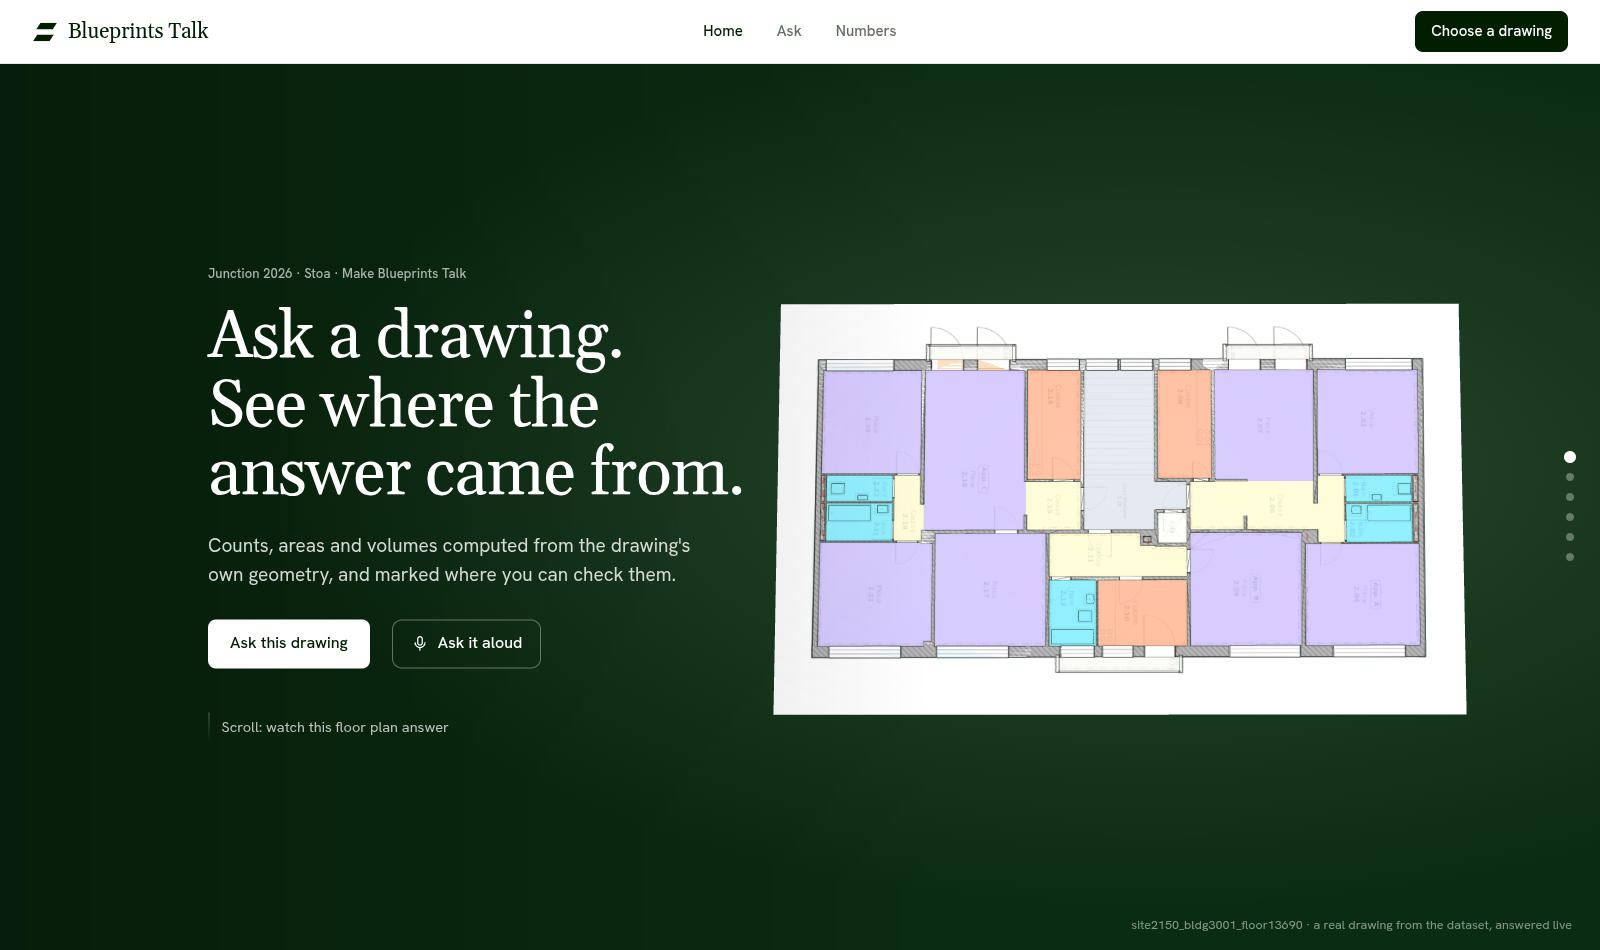
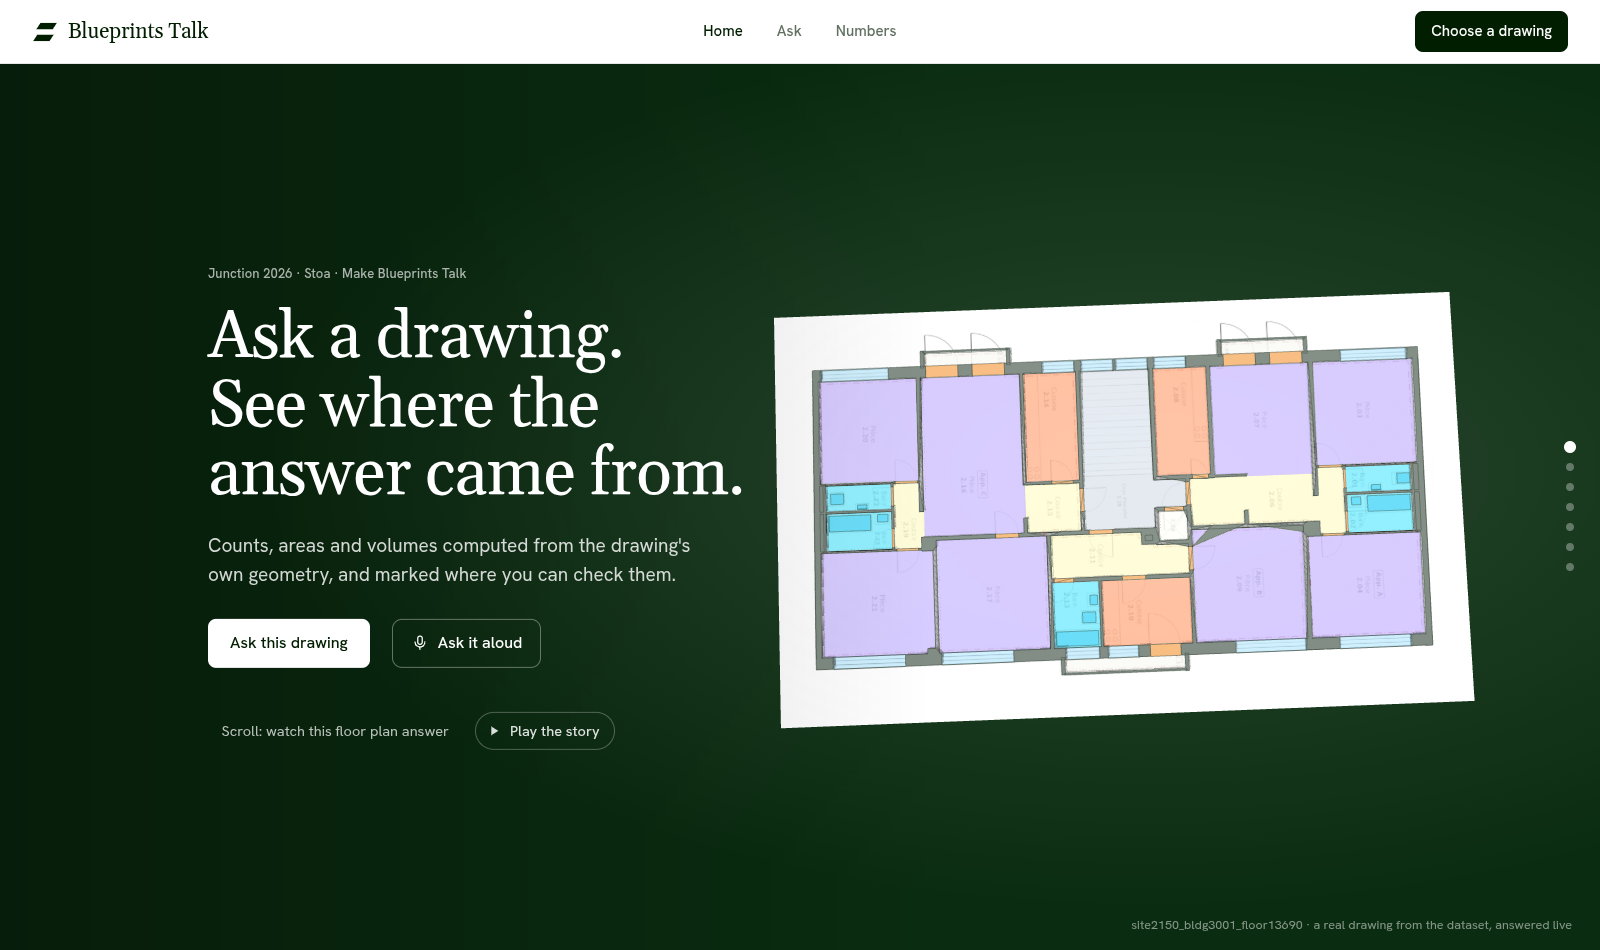
The story: alive before any scroll, plays by itself, and shows a scan
Before any scroll the walls breathe and the view drifts; a control plays the whole
story at a steady pace. A new chapter shows a scan where Gemini's boxes are drawn one
by one and counted. Cut walls are inked like a drawing's solid walls. Presenting the
examples shows a caption with arrows where the drawing's name stood. The example cards
on the landing page stand on their own colours.

diff --git a/web/src/Story.tsx b/web/src/Story.tsx
@@ -8,10 +8,13 @@ import { type Direction, type Highlight, Viewer3D } from "./Viewer3D";
 // model. Every figure on screen is the engine's own answer to a real question, asked on load.
 
 const STOP = TOUR[0];
+// A scan, for the chapter where there is no geometry to read: the first example answered by a vision model.
+const SCAN = TOUR.find((stop) => stop.drawing.includes("cubicasa") && /window/i.test(stop.question)) ?? TOUR[7];
 const NONE = new Set<number>();
-const CHAPTERS = 6;
-// Where each chapter begins, as a share of the whole scroll.
-const AT = [0, 0.1, 0.3, 0.52, 0.7, 0.85, 1.0001];
+const CHAPTERS = 7;
+// Where each chapter begins, as a share of the whole scroll:
+// opening, it stands up, doors, areas, a scan, how far to trust it, results.
+const AT = [0, 0.09, 0.26, 0.45, 0.6, 0.74, 0.87, 1.0001];
 
 const clamp = (x: number) => Math.min(1, Math.max(0, x));
 const smooth = (from: number, to: number, x: number) => { const t = clamp((x - from) / (to - from)); return t * t * (3 - 2 * t); };
@@ -38,6 +41,7 @@ export function Story({ stats, onOpen, onBrowse, onBring, onTalk, canTalk }: Pro
   const [doors, setDoors] = useState<AskResult | null>(null);
   const [area, setArea] = useState<AskResult | null>(null);
   const [flat, setFlat] = useState<string | null>(null);  // which apartment the area question is about
+  const [scan, setScan] = useState<{ drawing: DrawingDetail; answer: AskResult } | null>(null);
 
   // The drawing, and two real questions put to the engine.
   useEffect(() => {
@@ -52,6 +56,8 @@ export function Story({ stats, onOpen, onBrowse, onBring, onTalk, canTalk }: Pro
       }
     }).catch(() => undefined);
     api.ask(STOP.drawing, STOP.question, false).then((answer) => alive && setDoors(answer)).catch(() => undefined);
+    Promise.all([api.drawing(SCAN.drawing), api.ask(SCAN.drawing, SCAN.question, false)])
+      .then(([drawing, answer]) => alive && setScan({ drawing, answer })).catch(() => undefined);
     return () => { alive = false; };
   }, []);
 
@@ -75,19 +81,53 @@ export function Story({ stats, onOpen, onBrowse, onBring, onTalk, canTalk }: Pro
 
   const chapter = Math.max(0, AT.findIndex((start, i) => p >= start && p < AT[i + 1]));
   const direction: Direction = useMemo(() => ({
-    rise: smooth(0.07, 0.27, p),
-    tilt: 1.5 - 0.88 * smooth(0.05, 0.3, p),
-    turn: Math.PI / 2 + 0.55 * smooth(0.08, 0.34, p) + 1.25 * linear(0.3, 1, p),
-    back: 1.2 - 0.06 * smooth(0.1, 0.3, p) + 0.1 * smooth(0.72, 1, p),
+    rise: smooth(0.06, 0.23, p),
+    tilt: 1.5 - 0.88 * smooth(0.04, 0.26, p),
+    turn: Math.PI / 2 + 0.55 * smooth(0.07, 0.29, p) + 1.3 * linear(0.26, 1, p),
+    back: 1.2 - 0.06 * smooth(0.09, 0.26, p) + 0.1 * smooth(0.76, 1, p),
+    sway: 0.1 * (1 - smooth(0.01, 0.07, p)),  // before any scroll the walls breathe: it is a model, not a picture
   }), [p]);
+
+  // Playing: the page scrolls itself through the story at a steady pace (for showing it, or filming it).
+  const [playing, setPlaying] = useState(false);
+  useEffect(() => {
+    if (!playing) return;
+    const el = section.current;
+    if (!el) return;
+    const span = el.getBoundingClientRect().height - window.innerHeight;
+    const from = window.scrollY, to = el.offsetTop + span - 64;
+    const duration = Math.max(4000, 42000 * ((to - from) / span));
+    const began = performance.now();
+    let frame = 0;
+    const step = () => {
+      const t = (performance.now() - began) / duration;
+      window.scrollTo(0, from + (to - from) * Math.min(1, t));
+      if (t >= 1) return setPlaying(false);
+      frame = requestAnimationFrame(step);
+    };
+    frame = requestAnimationFrame(step);
+    const stop = () => setPlaying(false);
+    window.addEventListener("wheel", stop, { passive: true });
+    window.addEventListener("touchstart", stop, { passive: true });
+    window.addEventListener("keydown", stop);
+    return () => {
+      cancelAnimationFrame(frame);
+      window.removeEventListener("wheel", stop);
+      window.removeEventListener("touchstart", stop);
+      window.removeEventListener("keydown", stop);
+    };
+  }, [playing]);
 
   // Doors open one by one through the third chapter; the apartment's rooms light up through the fourth.
   const doorItems = useMemo(() => counted(doors), [doors]);
   const roomItems = useMemo(() => counted(area), [area]);
   const act = p < AT[3] ? "doors" : p < AT[4] ? "area" : "rest";
   const items = act === "doors" ? doorItems : act === "area" ? roomItems : [];
-  const shown = act === "doors" ? Math.round(linear(0.335, 0.47, p) * doorItems.length)
-    : act === "area" ? Math.round(linear(0.55, 0.655, p) * roomItems.length) : 0;
+  const shown = act === "doors" ? Math.round(linear(0.29, 0.41, p) * doorItems.length)
+    : act === "area" ? Math.round(linear(0.48, 0.565, p) * roomItems.length) : 0;
+  // On the scan, the model's boxes are drawn one by one.
+  const boxes = useMemo(() => (scan ? scan.answer.evidence.filter((e) => e.kind === "box" && e.bbox && e.n != null) : []), [scan]);
+  const boxed = Math.round(linear(0.63, 0.705, p) * boxes.length);
   const highlights: Highlight[] = useMemo(() => items.flatMap((e) => {
     const id = e.kind === "element" ? e.id : e.ref;
     return id ? [{ id, n: e.n!, tone: e.kind === "polygon" ? "area" as const : "count" as const }] : [];
@@ -116,7 +156,7 @@ export function Story({ stats, onOpen, onBrowse, onBring, onTalk, canTalk }: Pro
   return (
     <section className="story" ref={section} style={{ height: `${CHAPTERS * 105}vh` }}>
       <div className={`story-pin tone-${chapter}`}>
-        <div className="story-stage">
+        <div className={`story-stage${chapter === 4 ? " away" : ""}`}>
           {detail?.mesh && (
             <Viewer3D
               key={detail.mesh}
@@ -137,6 +177,24 @@ export function Story({ stats, onOpen, onBrowse, onBring, onTalk, canTalk }: Pro
           )}
         </div>
         <div className="story-shade" />
+        {scan && (
+          <div className={`story-scan${chapter === 4 ? " on" : ""}`}>
+            <svg viewBox={`0 0 ${scan.drawing.view.width} ${scan.drawing.view.height}`} role="img" aria-label="A scanned plan with each window boxed">
+              <image href={scan.drawing.view.url ?? undefined} width={scan.drawing.view.width} height={scan.drawing.view.height} />
+              {boxes.slice(0, boxed).map((e) => {
+                const [x0, y0, x1, y1] = e.bbox!;
+                const u = scan.drawing.view.width / 430;
+                return (
+                  <g key={e.n} className="box">
+                    <rect x={x0 - 2 * u} y={y0 - 2 * u} width={x1 - x0 + 4 * u} height={y1 - y0 + 4 * u} rx={3 * u} strokeWidth={2.2 * u} />
+                    <circle cx={x0 - 2 * u} cy={y0 - 2 * u} r={7.5 * u} />
+                    <text x={x0 - 2 * u} y={y0 - 2 * u + 2.9 * u} textAnchor="middle" fontSize={8.4 * u}>{e.n}</text>
+                  </g>
+                );
+              })}
+            </svg>
+          </div>
+        )}
 
         <div className="story-copy">
           <article className={chapter === 0 ? "on" : ""}>
@@ -152,7 +210,12 @@ export function Story({ stats, onOpen, onBrowse, onBring, onTalk, canTalk }: Pro
                 </button>
               )}
             </div>
-            <button className="cue" onClick={() => go(1)}><i />Scroll: watch this floor plan answer</button>
+            <div className="cues">
+              <button className="cue" onClick={() => go(1)}><i />Scroll: watch this floor plan answer</button>
+              <button className="play" onClick={() => setPlaying(true)}>
+                <svg viewBox="0 0 24 24" aria-hidden><path d="M8 5.5v13l10.5-6.500z" /></svg>Play the story
+              </button>
+            </div>
           </article>
 
           <article className={chapter === 1 ? "on" : ""}>
@@ -196,6 +259,21 @@ export function Story({ stats, onOpen, onBrowse, onBring, onTalk, canTalk }: Pro
 
           <article className={chapter === 4 ? "on" : ""}>
             <p className="step">04</p>
+            <h2>On a scan, the model points. The code counts.</h2>
+            <div className={`live asked${boxed >= boxes.length && boxes.length ? " done" : ""}`}>
+              <p className="said"><span>How many windows are on this plan?</span></p>
+              <div className="reply">
+                <strong>{scan ? boxed : "\u00a0"}</strong>
+                <span className="unit">windows</span>
+                <span className={`verdict ${scan?.answer.state ?? "check"}`}><i />{scan?.answer.state === "verified" ? "Verified" : "Check this"}</span>
+              </div>
+              <p className="how">Gemini boxes each one · the code counts the boxes · about €0.007</p>
+            </div>
+            <p className="sub small">A scan has no geometry to read. Even then the number is not generated: it is the count of boxes you can see, and it is never marked Verified.</p>
+          </article>
+
+          <article className={chapter === 5 ? "on" : ""}>
+            <p className="step">05</p>
             <h2>It says how far to trust it.</h2>
             <ul className="states">
               <li className="verified"><b><i />Verified</b><span>No need to double-check. {proof ? <>On drawings held back for testing, answers like this were wrong <em>{proof.calibration_errors} times in {proof.calibration_answers.toLocaleString("en")}</em>.</> : "Measured on drawings held back for testing."}</span></li>
@@ -204,8 +282,8 @@ export function Story({ stats, onOpen, onBrowse, onBring, onTalk, canTalk }: Pro
             </ul>
           </article>
 
-          <article className={chapter === 5 ? "on" : ""}>
-            <p className="step">05</p>
+          <article className={chapter === 6 ? "on" : ""}>
+            <p className="step">06</p>
             <h2>Measured, not claimed.</h2>
             <div className="scores">
               <div><strong>{pct(ours?.accuracy)}</strong><span>correct on {ours?.n ?? 200} questions. A vision model alone: <b>{pct(alone?.accuracy)}</b></span></div>
@@ -223,12 +301,13 @@ export function Story({ stats, onOpen, onBrowse, onBring, onTalk, canTalk }: Pro
           </article>
         </div>
 
+        {playing && <button className="story-stop" onClick={() => setPlaying(false)}>Playing · press any key to stop</button>}
         <nav className="story-rail" aria-label="Chapters">
           {Array.from({ length: CHAPTERS }, (_, i) => (
             <button key={i} className={i === chapter ? "on" : ""} onClick={() => go(i)} aria-label={`Chapter ${i + 1}`} />
           ))}
         </nav>
-        <p className="story-credit">{detail?.title ?? ""} · a real drawing from the dataset, answered live</p>
+        <p className="story-credit">{(chapter === 4 ? scan?.drawing.title : detail?.title) ?? ""} · a real drawing from the dataset, {chapter === 4 ? "its logged answer shown" : "answered live"}</p>
       </div>
     </section>
   );

diff --git a/web/src/styles.css b/web/src/styles.css
@@ -528,9 +528,21 @@ h1, h2 { font-family: var(--serif); font-weight: 400; letter-spacing: -0.015em; 
 .story-pin.tone-1 { --tone: #0e3a2f; }
 .story-pin.tone-2 { --tone: #17306e; }
 .story-pin.tone-3 { --tone: #0d5257; }
-.story-pin.tone-4 { --tone: #43245c; }
-.story-pin.tone-5 { --tone: #0a2c10; }
-.story-stage { position: absolute; inset: 0; }
+.story-pin.tone-4 { --tone: #6e2c17; }
+.story-pin.tone-5 { --tone: #43245c; }
+.story-pin.tone-6 { --tone: #0a2c10; }
+.story-stage { position: absolute; inset: 0; transition: opacity 0.6s ease, transform 0.8s cubic-bezier(0.2, 0.8, 0.2, 1); }
+.story-stage.away { opacity: 0; transform: scale(0.94) translateX(4%); pointer-events: none; }
+/* The scan: a sheet of paper that slides in where the model stood */
+.story-scan { position: absolute; right: max(64px, calc((100vw - 1280px) / 2 + 20px)); top: 50%; height: min(78%, 720px); aspect-ratio: 0.8;
+  transform: translateY(-46%) rotate(3deg) scale(0.92); opacity: 0; pointer-events: none;
+  transition: opacity 0.6s ease, transform 0.9s cubic-bezier(0.2, 0.8, 0.2, 1); }
+.story-scan.on { opacity: 1; transform: translateY(-50%) rotate(-2deg); }
+.story-scan svg { width: 100%; height: 100%; background: #fff; border-radius: 6px; box-shadow: 0 40px 80px -30px rgb(0 0 0 / 0.6), 0 2px 0 rgb(255 255 255 / 0.5) inset; padding: 2.5%; }
+.story-scan .box rect { fill: rgb(240 122 20 / 0.14); stroke: #e8690a; animation: boxin 0.35s cubic-bezier(0.2, 0.9, 0.2, 1.3) both; transform-box: fill-box; transform-origin: center; }
+.story-scan .box circle { fill: #011e01; stroke: #fff; stroke-width: 1.5; }
+.story-scan .box text { fill: #fff; font: 600 10px var(--sans); }
+@keyframes boxin { from { transform: scale(1.6); opacity: 0; } to { transform: none; opacity: 1; } }
 .story-stage .viewer3d { position: absolute; inset: 0; }
 .story-shade { position: absolute; inset: 0; pointer-events: none;
   background: radial-gradient(90% 80% at 72% 46%, rgb(255 255 255 / 0.13) 0%, rgb(255 255 255 / 0) 62%),
@@ -560,7 +572,14 @@ h1, h2 { font-family: var(--serif); font-weight: 400; letter-spacing: -0.015em; 
   border: 1px solid rgb(255 255 255 / 0.36); transition: background 0.2s, border-color 0.2s; }
 .story .talk:hover { background: rgb(255 255 255 / 0.1); border-color: rgb(255 255 255 / 0.62); }
 .story .talk svg { width: 18px; height: 18px; fill: none; stroke: currentColor; stroke-width: 1.7; stroke-linecap: round; stroke-linejoin: round; }
-.story .cue { display: inline-flex; align-items: center; gap: 12px; margin-top: 44px; font-size: 14.5px; color: rgb(255 255 255 / 0.72); }
+.story .cues { display: flex; align-items: center; gap: 26px; margin-top: 44px; }
+.story .cue { display: inline-flex; align-items: center; gap: 12px; font-size: 14.5px; color: rgb(255 255 255 / 0.72); }
+.story .play { display: inline-flex; align-items: center; gap: 8px; font-size: 14.5px; font-weight: 500; color: rgb(255 255 255 / 0.86); padding: 7px 14px 7px 10px;
+  border-radius: 99px; border: 1px solid rgb(255 255 255 / 0.28); transition: background 0.2s, border-color 0.2s; }
+.story .play:hover { background: rgb(255 255 255 / 0.1); border-color: rgb(255 255 255 / 0.6); color: #fff; }
+.story .play svg { width: 16px; height: 16px; fill: currentColor; }
+.story-stop { position: absolute; left: 50%; bottom: 18px; transform: translateX(-50%); font-size: 13px; color: rgb(255 255 255 / 0.7); padding: 6px 14px;
+  border-radius: 99px; background: rgb(0 0 0 / 0.28); -webkit-backdrop-filter: blur(8px); backdrop-filter: blur(8px); }
 .story .cue i { width: 1.5px; height: 30px; background: linear-gradient(#fff, rgb(255 255 255 / 0)); animation: cue 1.7s ease-in-out infinite; transform-origin: top; }
 @keyframes cue { 0% { transform: scaleY(0); } 55% { transform: scaleY(1); opacity: 1; } 100% { transform: scaleY(1); opacity: 0; } }
 
@@ -586,9 +605,9 @@ h1, h2 { font-family: var(--serif); font-weight: 400; letter-spacing: -0.015em; 
 .story-rail button.on { background: #fff; transform: scale(1.5); }
 .story-credit { position: absolute; right: 28px; bottom: 16px; font-size: 12.5px; color: rgb(255 255 255 / 0.5); pointer-events: none; }
 
-.more { display: flex; align-items: baseline; justify-content: space-between; gap: 24px; margin-bottom: 30px; }
-.more h2 { font-size: 40px; }
-.more button { font-weight: 500; color: var(--ink-2); }
+.try-head { display: flex; align-items: baseline; justify-content: space-between; gap: 24px; margin-bottom: 30px; }
+.try-head h2 { font-size: 40px; }
+.try-head button { font-weight: 500; color: var(--ink-2); }
 
 @media (max-width: 900px) {
   .story-copy { width: calc(100vw - 48px); left: 24px; }
@@ -626,3 +645,28 @@ h1, h2 { font-family: var(--serif); font-weight: 400; letter-spacing: -0.015em; 
 
 /* The model's stage: a soft sky, and the model on a round table. */
 .viewer3d:not(.night) { background: radial-gradient(120% 95% at 50% 12%, #ffffff 0%, #eef4f7 52%, #dde8ee 100%); }
+
+/* Presenting the examples: a caption where the drawing's name usually stands */
+.caption { display: flex; align-items: center; gap: 14px; min-width: 0; animation: rise 0.35s ease-out both; }
+.caption > button { width: 30px; height: 30px; border-radius: 50%; border: 1px solid var(--line-2); color: var(--ink-2); font-size: 15px; line-height: 1; flex: none; transition: background 0.2s, border-color 0.2s; }
+.caption > button:hover { background: var(--surface); border-color: var(--ink-4); color: var(--ink); }
+.caption i { font: 400 26px/1 var(--serif); font-style: normal; letter-spacing: -0.01em; color: var(--ink); flex: none; font-variant-numeric: lining-nums tabular-nums; padding-left: 12px; border-left: 3px solid var(--ok); }
+.caption.check i { border-left-color: #f1b434; }
+.caption.declined i { border-left-color: var(--stop); }
+.caption i small { font: 500 12.5px var(--sans); color: var(--ink-4); }
+.caption div { display: grid; min-width: 0; }
+.caption strong { font-weight: 600; font-size: 15px; white-space: nowrap; overflow: hidden; text-overflow: ellipsis; }
+.caption span { font-size: 13px; color: var(--ink-3); white-space: nowrap; overflow: hidden; text-overflow: ellipsis; }
+
+/* The examples on the landing page: each on its own colour */
+.example .thumb { border: 0; border-radius: 20px; height: 250px; background: var(--wash, #eef0f1); }
+.example:nth-child(6n + 1) { --wash: #e7e2fb; }
+.example:nth-child(6n + 2) { --wash: #ffe6d6; }
+.example:nth-child(6n + 3) { --wash: #d9f0f6; }
+.example:nth-child(6n + 4) { --wash: #fdf0c8; }
+.example:nth-child(6n + 5) { --wash: #dff3df; }
+.example:nth-child(6n + 6) { --wash: #f9dfe6; }
+.example .thumb img { max-width: 70%; max-height: 66%; box-sizing: content-box; border-radius: 6px; background: #fff; padding: 10px; mix-blend-mode: normal; box-shadow: 0 14px 30px -12px rgb(1 30 1 / 0.28); transform: rotate(-2deg); }
+.example:nth-child(even) .thumb img { transform: rotate(1.6deg); }
+.example:hover .thumb { box-shadow: none; }
+.example:hover .thumb img { transform: rotate(0deg) scale(1.05); }

diff --git a/web/src/Viewer3D.tsx b/web/src/Viewer3D.tsx
@@ -11,6 +11,7 @@ export interface Direction {
   turn: number;  // where the camera stands around the model, radians
   tilt: number;  // how high it stands: about 1.5 looks straight down, 0.6 is a three-quarter view
   back: number;  // its distance, as a multiple of the distance that just fits the model
+  sway?: number;  // while waiting: the walls breathe and the view drifts by about this much, on their own
 }
 
 export interface Highlight {
@@ -265,9 +266,15 @@ export function Viewer3D({ meshUrl, groundUrl, imageUrl, highlights, visible, ho
       const want = directed.current;
       if (want && s) {  // the page directs: follow it softly
         let moved = false;
+        const sway = want.sway ?? 0;
+        const aim = sway > 0.001
+          ? { ...want, rise: want.rise + sway * (0.55 + 0.45 * Math.sin(now / 1100)), turn: want.turn + sway * 0.9 * Math.sin(now / 2300),
+              tilt: want.tilt - sway * 1.6 * (0.5 + 0.5 * Math.sin(now / 1900)) }
+          : want;
+        if (sway > 0.001) moved = true;  // alive while it waits
         for (const key of ["rise", "turn", "tilt", "back"] as const) {
-          const gap = want[key] - now3[key];
-          if (Math.abs(gap) > 0.0004) { now3[key] += gap * 0.13; moved = true; } else now3[key] = want[key];
+          const gap = aim[key] - now3[key];
+          if (Math.abs(gap) > 0.0004) { now3[key] += gap * 0.13; moved = true; } else now3[key] = aim[key];
         }
         if (moved || dirty) {
           s.root.scale.z = Math.max(0.001, now3.rise);
@@ -413,6 +420,16 @@ export function Viewer3D({ meshUrl, groundUrl, imageUrl, highlights, visible, ho
           transparent: !!group.style.glass, opacity: group.style.glass ? 0.5 : 1, depthWrite: !group.style.glass,
           polygonOffset: true, polygonOffsetFactor: 1, polygonOffsetUnits: 1,
         });
+        if (group.style.kind === "wall") {
+          // Where a wall is cut, it is inked, as on a drawing: faces that look straight up turn dark.
+          // Flat on the sheet the walls read as a plan's solid walls; standing, as a model cut open.
+          material.onBeforeCompile = (shader) => {
+            shader.fragmentShader = shader.fragmentShader.replace("#include <color_fragment>", `#include <color_fragment>
+              vec3 cutNormal = normalize(cross(dFdx(vViewPosition), dFdy(vViewPosition)));
+              float cutUp = abs((vec4(cutNormal, 0.0) * viewMatrix).y);
+              diffuseColor.rgb = mix(diffuseColor.rgb, vec3(0.085, 0.12, 0.1), smoothstep(0.93, 0.97, cutUp) * 0.94);`);
+          };
+        }
         const mesh = new THREE.Mesh(geometry, material);
         mesh.visible = !group.style.hidden;
         mesh.castShadow = !group.style.glass;

diff --git a/web/src/App.tsx b/web/src/App.tsx
@@ -509,16 +509,29 @@ export function App() {
 
           <section className="board">
             <header>
-              <div className="what">
-                {detail && (
-                  <>
-                    <strong>{detail.title}</strong>
-                    <span>
-                      {SOURCE_NAMES[detail.source] ?? detail.source} · {detail.formats.join(", ").toUpperCase()}{detail.paper_scale ? ` · 1:${detail.paper_scale}` : ""}
-                    </span>
-                  </>
-                )}
-              </div>
+              {at >= 0 ? (
+                // Presenting the examples: what this one shows, and where we are among them.
+                <div className={`caption ${TOUR[at].state}`} key={at}>
+                  <button type="button" onClick={() => void openStop(TOUR[(at - 1 + TOUR.length) % TOUR.length])} aria-label="Previous example">←</button>
+                  <i>{String(at + 1).padStart(2, "0")}<small> / {TOUR.length}</small></i>
+                  <div>
+                    <strong>{TOUR[at].label}</strong>
+                    <span>{TOUR[at].note}</span>
+                  </div>
+                  <button type="button" onClick={() => void openStop(TOUR[(at + 1) % TOUR.length])} aria-label="Next example">→</button>
+                </div>
+              ) : (
+                <div className="what">
+                  {detail && (
+                    <>
+                      <strong>{detail.title}</strong>
+                      <span>
+                        {SOURCE_NAMES[detail.source] ?? detail.source} · {detail.formats.join(", ").toUpperCase()}{detail.paper_scale ? ` · 1:${detail.paper_scale}` : ""}
+                      </span>
+                    </>
+                  )}
+                </div>
+              )}
               {has2d && has3d && (
                 <div className="segmented" role="tablist">
                   {(["plan", "both", "3d"] as Mode[]).map((m) => (

diff --git a/web/src/Home.tsx b/web/src/Home.tsx
@@ -31,7 +31,7 @@ export function Home({ onOpen, onBrowse, onNumbers, onBring, onTalk, canTalk }: 
     <main className="home">
       <Story stats={stats} onOpen={onOpen} onBrowse={onBrowse} onBring={onBring} onTalk={onTalk} canTalk={canTalk} />
       <div className="home-rest">
-      <header className="more">
+      <header className="try-head">
         <h2>Try it on real drawings</h2>
         <button onClick={onNumbers}>All the numbers →</button>
       </header>
